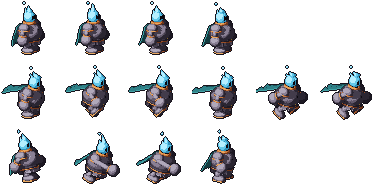
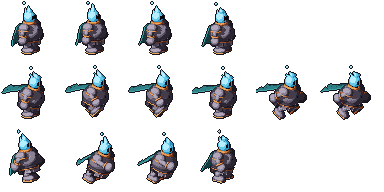
보이드 주먹: 팔 늘어남 줄이고 주먹 크기 축소
Claude-Session: https://claude.ai/code/session_01CPuQwRxjahy2BkbhjWZhoU

diff --git a/art/void/void_blender.py b/art/void/void_blender.py
@@ -69,7 +69,7 @@ arms = {}; parts = {}
 for sy, mat in ((-1, "iron"), (1, "back")):
     piv = empty(f"arm{sy}", (0.02, sy * 0.76, 0.66), body)
     up = cyl(f"upper{sy}", mat, (0, 0, -0.2), 0.13, 0.4, piv)
-    fi = sphere(f"fist{sy}", mat, (0.06, 0, -0.56), (0.31, 0.28, 0.28), piv)
+    fi = sphere(f"fist{sy}", mat, (0.06, 0, -0.56), (0.25, 0.23, 0.23), piv)
     cu = torus(f"cuff{sy}", "rust", (0.02, 0, -0.33), 0.17, 0.04, piv)
     arms[sy] = piv; parts[sy] = (up, fi, cu)
 # 다리: 골반 축에서 돌린다
@@ -127,7 +127,7 @@ def pose(anim, u):
         la = [0.85 * math.sin(w), -0.85 * math.sin(w)]; aa = [-1.0 * math.sin(w), 1.0 * math.sin(w)]
     elif anim == "punch":                                      # 당겼다가 뻗고 돌아온다
         # (숙임, 앞팔 각도, 팔 뻗는 길이, 가까운 다리, 먼 다리, 몸 앞으로, 들썩임)
-        keys = [(-0.2, 0.8, 0.0, 0.1, -0.1, -0.05, 0.0), (0.34, -1.5, 0.6, -0.45, 0.5, 0.2, -0.05), (0.3, -1.45, 0.5, -0.4, 0.45, 0.17, -0.05), (0.1, -0.5, 0.0, -0.15, 0.2, 0.04, 0.0)]
+        keys = [(-0.2, 0.8, 0.0, 0.1, -0.1, -0.05, 0.0), (0.36, -1.5, 0.22, -0.45, 0.5, 0.3, -0.05), (0.32, -1.45, 0.17, -0.4, 0.45, 0.26, -0.05), (0.1, -0.5, 0.0, -0.15, 0.2, 0.04, 0.0)]
         lean, a0, ext, l0, l1, bx, bob = keys[min(3, int(u * 4))]; aa = [a0, 0.6 if a0 < 0 else -0.4]; la = [l0, l1]; blow = 0.35 if a0 < -1 else 0.1
     body.location.z = 0.62 + bob; body.location.x = bx; body.rotation_euler = (0, lean, 0)
     for i, sy in enumerate((-1, 1)):
